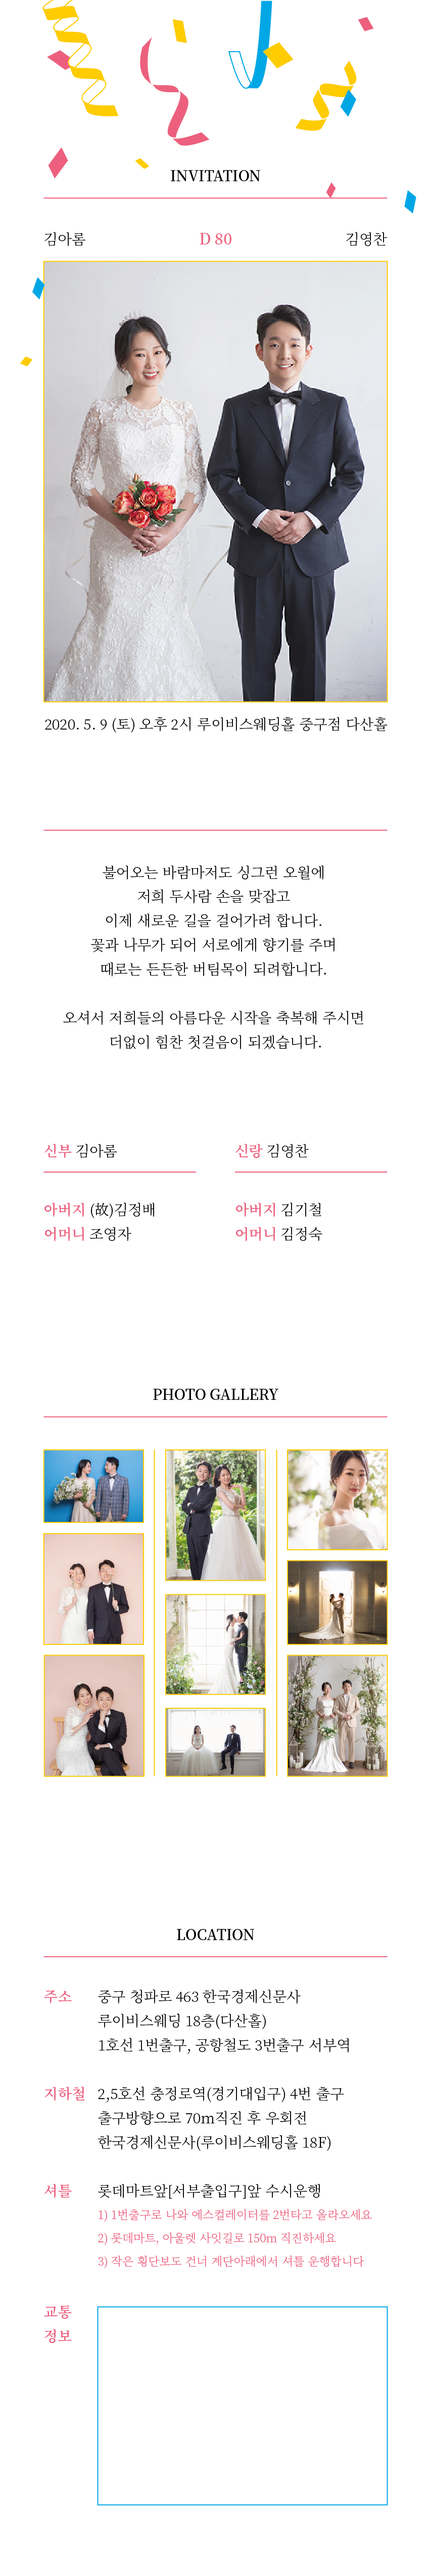
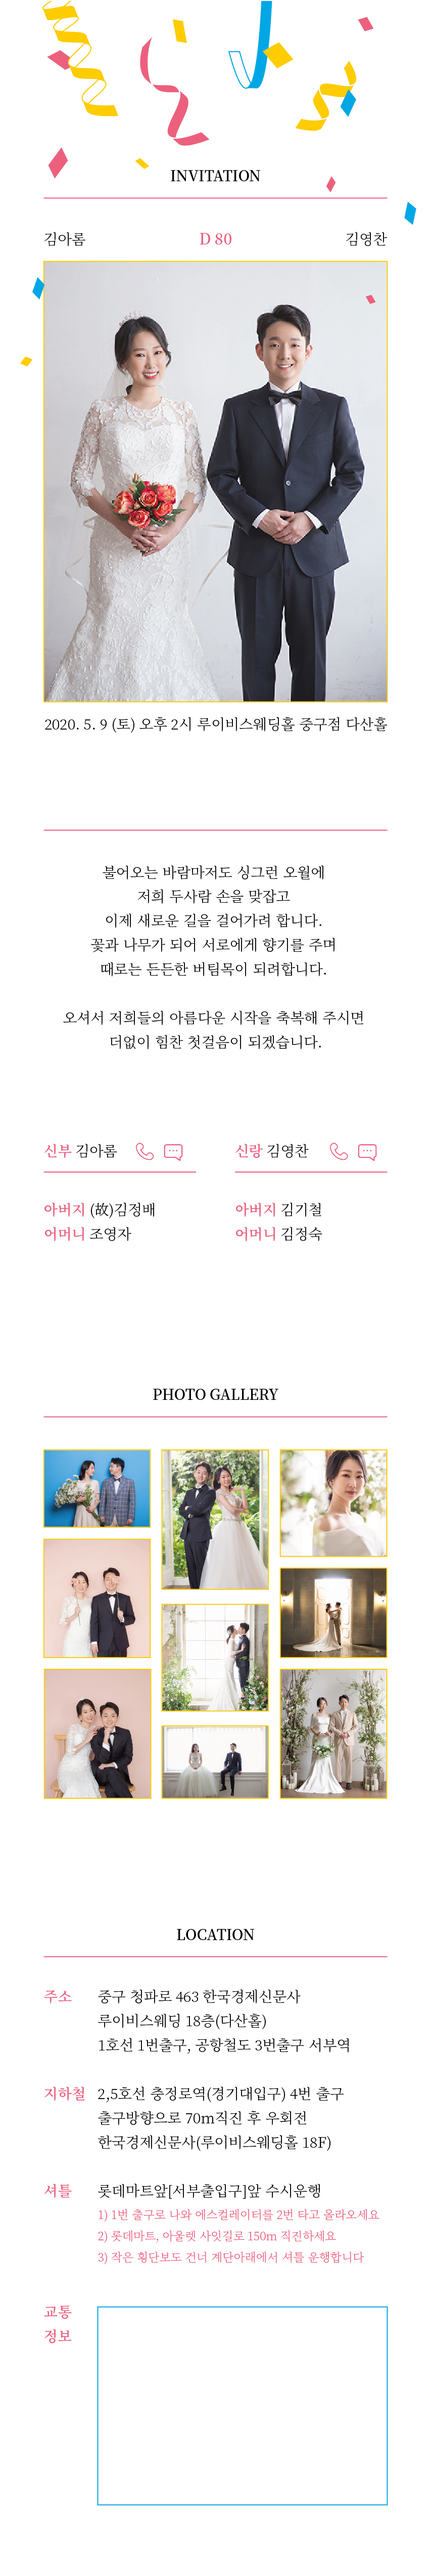
media query

diff --git a/common.css b/common.css
@@ -42,6 +42,9 @@ input, textarea, button, select, a {
 body {
 	font-family: 'NotoSerifKR', serif;
 	font-size: 1rem;
+	overflow-y: scroll;
+	-ms-overflow-style: none; /* IE and Edge */
+	scrollbar-width: none; /* Firefox */
 }
 
 .invitation {
@@ -54,6 +57,10 @@ body {
 	box-sizing: border-box;
 	background: url('./img/background.png') no-repeat top;
 	background-size: 100% 13.5%;
+}
+
+body::-webkit-scrollbar {
+	display: none; /* Chrome, Safari, Opera*/
 }
 
 h1 {
@@ -90,7 +97,7 @@ h2 {
 
 .info-bottom {
 	margin-top: 0.45rem;
-	margin-bottom: 5.75rem;
+	margin-bottom: 6rem;
 	text-align: center;
 	font-size: 0.95rem;
 }
@@ -144,102 +151,77 @@ img.home {
 }
 
 .photo-frame {
-	position: relative;
 	width: 100%;
 	margin-top: 2.2rem;
 	margin-bottom: 10.2rem;
-	overflow: hidden;
-}
-
-.photo-frame:before, .photo-frame:after {
-	position: absolute;
-	top: 0.05rem;
-	bottom: 0.05rem;
-	content: '';
-	width: 0.1rem;
-	height: 100%;
-	background: #fed42a;
-}
-
-.photo-frame:before {left: 7.7rem; }
-.photo-frame:after { right: 7.7rem; }
-
-.col {
-	float: left;
-}
-
-.col2 {
-	margin-left: 1.45rem;
-}
-
-.col3 {
-	margin-left: 1.4rem;
+	display: flex;
+	justify-content: space-between;
 }
 
 .thumbnail {
 	border: 0.1rem solid #fed42a;
 	box-sizing: border-box;
-	width: 7.05rem;
+	width: 7.55rem;
 }
 
 .img1 {
 	background: url('./img/photo-1.jpg') center;
 	height: 5.15rem;
-	background-size: 123% 112%;
+	background-size: 115% 112%;
 }
 
 .img2 {
-	background: url('./img/photo-2.jpg') center 30%;
+	background: url('./img/photo-2.jpg') center 45%;
 	margin-top: 0.7rem;
 	height: 7.8rem;
-	background-size: 103% 140%;
+	background-size: 100% 145%;
 }
 
 .img3 {
-	background: url('./img/photo-3.jpg') center 65%;
+	background: url('./img/photo-3.jpg') center 70%;
 	margin-top: 0.65rem;
 	height: 8.5rem;
-	background-size: 109% 140%;
+	background-size: 105% 140%;
 }
 
 .img4 {
 	background: url('./img/photo-4.jpg') center 13%;
 	height: 9.2rem;
-	background-size: 110% 125%;
+	background-size: 110% 140%;
 }
 
 .img5 {
 	background: url('./img/photo-5.jpg') center 45%;
 	margin-top: 0.85rem;
 	height: 7.05rem;
-	background-size: 104% 150%;
+	background-size: 104% 170%;
 }
 
 .img6 {
 	background: url('./img/photo-6.jpg') center;
 	margin-top: 0.85rem;
 	height: 4.85rem;
-	background-size: 110% 110%;
+	background-size: 110% 125%;
 }
 
 .img7 {
 	background: url('./img/photo-7.jpg') 60% center;
 	height: 7.05rem;
-	background-size: 158% 103%;
+	background-size: 141% 101%;
 }
 
 .img8 {
 	background: url('./img/photo-8.jpg') center 60%;
 	margin-top: 0.65rem;
 	height: 5.95rem;
-	background-size: 133% 110%;
+	background-size: 131% 110%;
 }
 
 .img9 {
 	background: url('./img/photo-9.jpg') center 70%;
 	margin-top: 0.65rem;
 	height: 8.5rem;
-	background-size: 107% 132%;
+	background-size: 101% 132%;
 }
 
 .text-wrapper {

diff --git a/index.html b/index.html
@@ -26,15 +26,16 @@
 	<h1></h1>
 	<div class="text">
 		<div>
-			<p>불어오는 바람마저도 싱그런 오월에</p>
-			<p>저희 두사람 손을 맞잡고</p>
-			<p>이제 새로운 길을 걸어가려 합니다.</p>
-			<p>꽃과 나무가 되어 서로에게 향기를 주며</p>
-			<p>때로는 든든한 버팀목이 되려합니다.</p>
+			<p>꽃 진 자리따라 푸른 잎 피어나는 아름다운 오월에</p>
+			<p>저희 두 사람 함께 손잡고 </p>
+			<p>이제 한 곳을 바라보며 걸어가려 합니다.</p>
+			<p>꽃이 되어 서로에게 향기를 주고</p>
+			<p>나무가 되어 서로에게 든든한 버팀목이 되려합니다.</p>
 		</div>
 		<div>
-			<p>오셔서 저희들의 아름다운 시작을 축복해 주시면</p>
-			<p>더없이 힘찬 첫걸음이 되겠습니다.</p>
+			<p>멀리서, 혹은 가까이서</p>
+			<p>저희들의 시작을 한껏 축복해 주시면</p>
+			<p>내딛는 첫걸음이 더욱 힘차겠습니다.</p>
 		</div>
 	</div>
 	<div class="couple">
@@ -52,17 +53,17 @@
 	<!-- PHOTOS -->
 	<h1>PHOTO GALLERY</h1>
 	<div class="photo-frame">
-		<div class="col col1">
+		<div class="col">
 			<div class="thumbnail img1"></div>
 			<div class="thumbnail img2"></div>
 			<div class="thumbnail img3"></div>
 		</div>
-		<div class="col col2">
+		<div class="col">
 			<div class="thumbnail img4"></div>
 			<div class="thumbnail img5"></div>
 			<div class="thumbnail img6"></div>
 		</div>
-		<div class="col col3">
+		<div class="col">
 			<div class="thumbnail img7"></div>
 			<div class="thumbnail img8"></div>
 			<div class="thumbnail img9"></div>
@@ -122,6 +123,6 @@
 </div>
 </body>
 
-<script src="//dapi.kakao.com/v2/maps/sdk.js?appkey=8d9f9d15be8b32b4963ed6f0701d2c3b"></script>
+<!-- <script src="//dapi.kakao.com/v2/maps/sdk.js?appkey=8d9f9d15be8b32b4963ed6f0701d2c3b"></script> -->
 <script src="./main.js"></script>
 </html>

diff --git a/media.css b/media.css
@@ -1,15 +1,47 @@
-@media screen and (min-width: 618px) {
+@media screen and (min-width: 595px) {
   html { font-size: 20px; }
 }
 
-@media screen and (min-width: 587px) and (max-width: 617px) {
+@media screen and (min-width: 565px) and (max-width: 594px) {
   html { font-size: 19px; }
 }
 
-@media screen and (min-width: 557px) and (max-width: 586px) {
+@media screen and (min-width: 537px) and (max-width: 564px) {
   html { font-size: 18px; }
 } 
 
-@media screen and (min-width: 528px) and (max-width: 556px) {
+@media screen and (min-width: 505px) and (max-width: 536px) {
   html { font-size: 17px; }
+} 
+
+@media screen and (min-width: 475px) and (max-width: 504px) {
+  html { font-size: 16px; }
+}
+
+@media screen and (min-width: 445px) and (max-width: 474px) {
+  html { font-size: 15px; }
+}
+
+@media screen and (min-width: 417px) and (max-width: 444px) {
+  html { font-size: 14px; }
+}
+
+@media screen and (min-width: 411px) and (max-width: 416px) {
+  html { font-size: 13.8px; }
+}
+
+@media screen and (min-width: 387px) and (max-width: 410px) {
+  html { font-size: 13px; }
+}
+
+@media screen and (min-width: 375px) and (max-width: 486px) {
+  html { font-size: 12.5px; }
+}
+
+@media screen and (min-width: 355px) and (max-width: 474px) {
+  html { font-size: 12px; }
+}
+
+@media screen and (max-width: 454px) {
+  html { font-size: 11.5px; }
 }

diff --git a/main.js b/main.js
@@ -1,5 +1,6 @@
 (function () {
 	window.addEventListener('load', function () {
+		// D-Day 설정
 		var el = document.getElementById('d-day')
 		var wedding = new Date('2020-05-09')
 		var today = new Date()
@@ -7,12 +8,13 @@
 		var result = Math.ceil(gap / (1000 * 60 * 60 * 24)) * -1
 		el.innerText = result
 
-		var container = document.getElementById('map'); //지도를 담을 영역의 DOM 레퍼런스
-		var options = { //지도를 생성할 때 필요한 기본 옵션
-			center: new kakao.maps.LatLng(33.450701, 126.570667), //지도의 중심좌표.
-			level: 3 //지도의 레벨(확대, 축소 정도)
-		};
+		// 지도 설정
+		// var container = document.getElementById('map')
+		// var options = {
+		// 	center: new kakao.maps.LatLng(37.560310, 126.967112),
+		// 	level: 3
+		// }
 
-		var map = new kakao.maps.Map(container, options);
+		// var map = new kakao.maps.Map(container, options)
 	})
 })()
